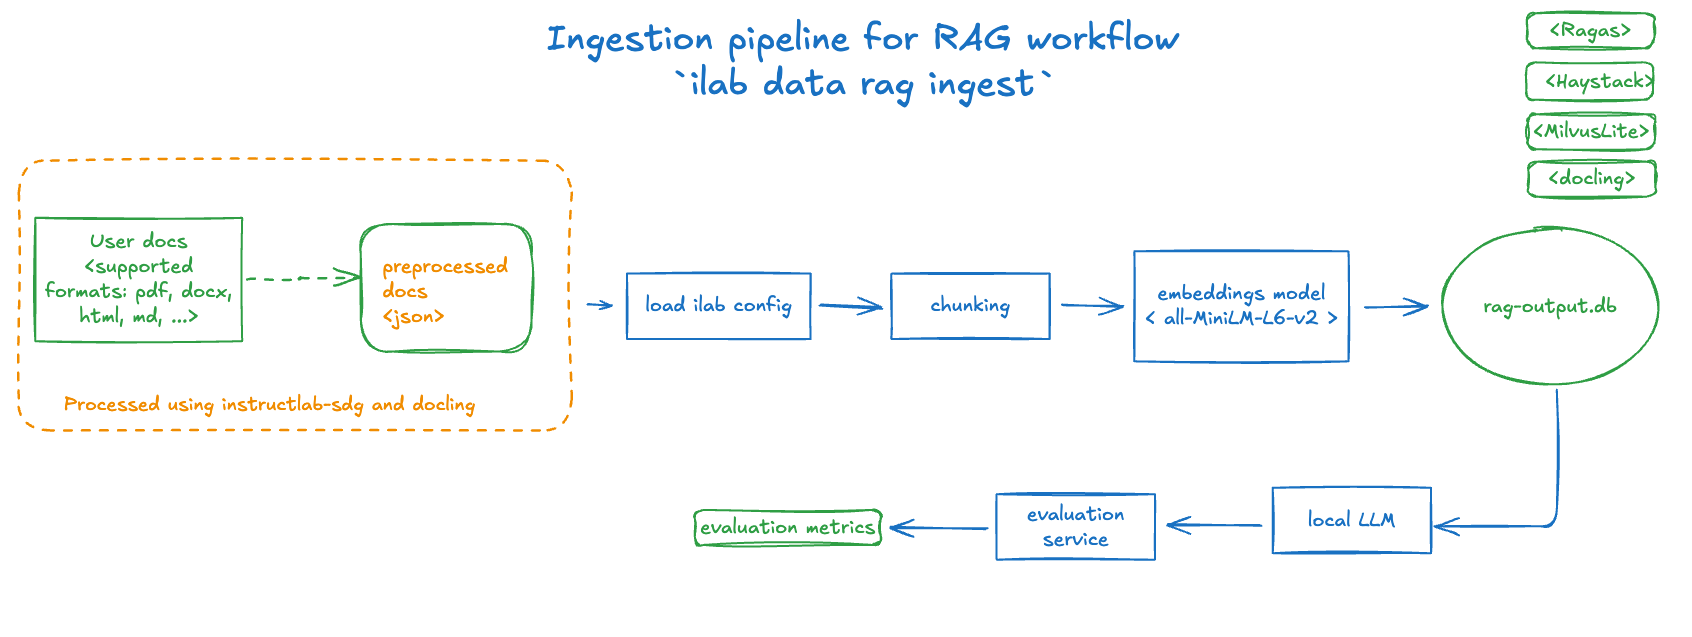
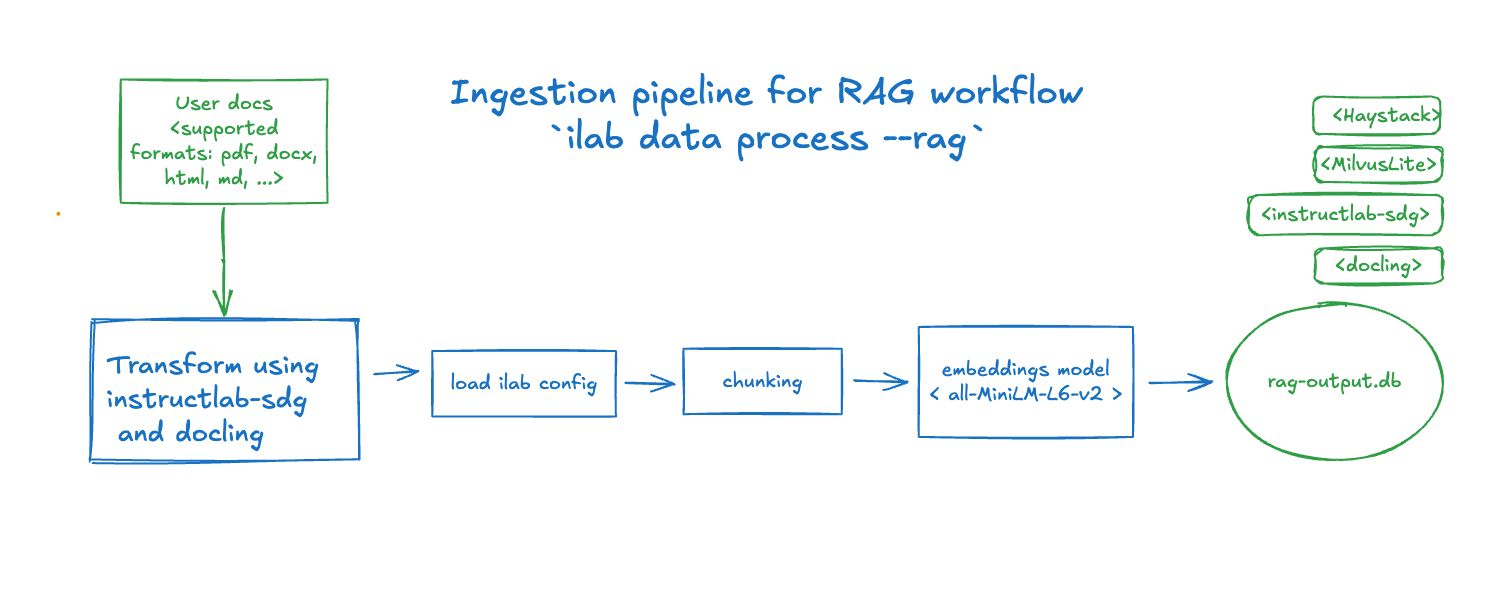
Reviewed proposal after meeting ilab-runtime team

diff --git a/docs/cli/ilab-rag-retrieval.md b/docs/cli/ilab-rag-retrieval.md
@@ -1,153 +1,123 @@
-# Ingesting and Utilizing RAG Artifacts Design Proposal
+# Design Proposal - Embedding Ingestion Pipeline And RAG-Based Chat
 
 **Author**: Daniele Martinoli
 
 **Version**: 0.1
 
 ## 1. Introduction
-Purpose of this document is to propose `ilab` CLI changes to extend the InstructLab flow to generate and utilize RAG artifacts
-in the customer workflows. The proposal includes new commands to ingest a local RAG from pre-processed customer documentation, that we assume to be generated from docling output, and updates to the existing commands to utilize these RAG artifacts.
+This document proposes enhancements to the `ilab` CLI to support workflows utilizing Retrieval-Augmented Generation
+(RAG) artifacts within `InstructLab`. The proposed changes introduce new commands and options for the embedding ingestion
+and RAG-based chat pipelines:
+* A new embedding ingestion command to process customer documentation, generate embeddings, and ingest them into a configured vector store.
+* An option to enhance the chat pipeline by using the stored embeddings to augment the context of conversations, improving relevance and accuracy.
 
-## 2. Use Case
-* Accelerate POCs of fine-tuning LLMs + RAG.
-* Generate artifacts that data scientists can use to build custom solutions in their development environment:
-  * Jupyter Notebooks & Python Scripts
-  * Podman Desktop
-  * Red Hat OpenShift AI
-  * Internal Red Hat CI systems for products or services (e.g., Lightspeed products)
+## 2. Proposed Commands
+### 2.1 Working Assumption
+This proposal aims to serve as a reference design to develop a Proof of Concept for RAG workflows, while
+also laying the foundation for future implementations of state-of-the-art RAG artifacts tailored to specific use
+cases.
 
-## 3. Proposed Commands
-**Note**: In the context of version 1.4, currently under development, no changes to the command-line interface should be
-allowed. Therefore, we also propose alternative approaches to run the same RAG pipelines using existing `ilab` commands or
-other provided tools.
+To minimize impact on current and future users, the following boundaries are defined:
+* Existing commands will only be updated to add flags or configurations that are maintainable in future versions.
+  * Configuration parameters will be marked as `Optional` to not affect existing runtimes.
+* New commands will be added using flags (e.g., `--abc`) or environment variables (e.g., `ILAB_ABC`) to avoid any configuration changes. 
+  This approach ensures configuration compatibility even if the commands are deprecated later.
 
-### 3.1 RAG Ingestion Pipeline Command
-The proposal is to add a `rag` subgroup under the `data` group, with an `ingest` command, like:
+### 2.2 Embedding Ingestion Pipeline Command
+The proposal is to add a `process`  command to the `data` command group, with an explicit `--rag` flag to trigger
+the executions:
 ```
-ilab data rag ingest /path/to/docs/folder
+ilab data process --rag /path/to/docs/folder
 ```
+
+The rationale behind this choice is that the `data process` command can support future workflows, making its
+introduction an investment to anticipate other needs.
+
+Since the RAG behavior is the only functionality of this new command, executions without the `--rag` option will result
+in no output for now.
 
 #### Command Purpose
-This command processes embeddings generated from documents located in the */path/to/docs/folder* folder and stores them in a vector database. These embeddings are intended to be used as augmented context in a Retrieval-Augmented Generation (RAG) chat pipeline.
+Generate the embeddings from the documents at */path/to/docs/folder* folder and store them in the
+configured vector database. These embeddings are intended to be used as augmented context in a RAG-based chat pipeline.
 
 #### Assumptions
-The documents must be in JSON format and pre-processed using the `docling` tool.
+The provided documents must be in JSON format according to the InstructLab schema: this is the schema generated
+when transforming knowledge documents with the `ilab data generate` command (see 
+[Getting Started with Knowledge Contributions][1]).
 
-**Note**: The expected JSON schema is the same that we have when we generate knowledge data with `ilab data generate` and we
-add a reference document to the `qna.yaml` document(s).
+To simplify the execution of the transformation step, we introduce a `--transform` option which also includes the documents
+transformation, leveraging on the `instructlab-sdg` modules. 
+
+### Why We Need It
+This command streamlines the `ilab data generate` pipeline and eliminates the requirement to define a `qna` document,
+which typically includes:
+* A minimum of 5×3 question-and-answer pairs.
+* Reference documents stored in Git.
+
+The goal is not to generate training data for InstructLab-trained models but to utilize the documents for RAG 
+workflows with pre-tuned models.
 
 #### Supported Databases
-The command supports multiple vector database types. By default, it uses a local `MilvusLite` instance stored at `./rag-output.db`.
+The command may support various vector database types. A default configuration will align with the selected 
+InstructLab technology stack.
 
 #### Usage
 The generated embeddings can later be retrieved to enrich the context for RAG-based chat pipelines.
 
-#### Running the pipeline with v1.4
-Currently, there is no `ilab data rag` command available to execute the RAG ingestion pipeline. As a result, it is not possible
-to address the limitations of version 1.4 using the configuration options detailed below. 
-Alternatively, we propose providing a Jupyter notebook or a standalone script to run the pipeline with default settings.
+#### Defining Command Options
+To maintain compatibility and simplicity, no new configurations will be introduced for this command. Instead,
+the settings will be defined using the following hierarchy (options higher in the list overriding those below):
+* CLI flags (e.g., `--rag`).
+* Environment variables following a consistent naming convention, such as `ILAB_<UPPERCASE_ARGUMENT_NAME>`.
+* Default values, for all the applicable use cases.
 
-The script should guide users in overriding default options and generating the RAG artifacts in the configured vector database instance. By default, support for MilvusLite will be included.
-
-> **ℹ CLI-based alternative:** This is an alternative to run both the document transformation and the document ingestion in 
-> could be to run the document ingestion pipeline as part of the existing
-> `ilab data generate` command, with additional options to:
-> * overcome the limitation of starting from `qna.yaml` documents
-> * define an input and output locations
-> Example:
-> ```yaml
-> generate:
->   rag: 
->     enabled: true
->     input: /path/to/source-docs/folder
->     output: /path/to/processed-docs/folder
-> rag:
->   ...
-> ```
-> When `generate.rag.enabled` is set to `true`, the `ilab data generate command` executes the document ingestion pipeline, transforming 
-> the source documents in the `generate.rag.input` folder into the configured vector database:
-> * Step 1: Transform the documents using the existing `SDG` modules (powered by `docling`).
-> * Step 2: Ingest the pre-processed artifacts from `generate.rag.output` into the configured database.
-
-**TODO** Introduce the evaluation framework
-
-### 3.2 RAG Ingestion Pipeline Options
-**Planned for post v1.4 (apart changes required for the `chat` command)**
-
-| Option full name | Description | Default | CLI option |
-|------------------|-------------|---------|------------|
-| rag.splitter.split_by | One of `page`, `passage`, `sentence`, `word`, `line` | `word` | `--split-by` |
-| rag.splitter.split_length | The maximum number of units in each split | `200` | `--split-length` |
-| rag.splitter.split_overlap | The number of overlapping units for each split | `0` | `--split-overlap` |
-| rag.splitter.split_threshold | The minimum number of units per split | `0` | `--split-threshold` |
-| The vector DB implementation, one of: milvuslite, milvus, ... | `milvuslite` | `--vectordb-type` |
-| rag.vectordb.type | The vector DB implementation, one of: milvuslite, milvus, ... | `milvuslite` | `--vectordb-type` |
-| rag.vectordb.uri | The vector DB service URI | `./rag-output.db` | `--vectordb-uri` |
-| rag.vectordb.token | The vector DB connection token | | `--vectordb-token` |
-| rag.vectordb.username | The vector DB connection username | | `--vectordb-username` |
-| rag.vectordb.password | The vector DB connection password | | `--vectordb-password` |
-| rag.embedding_model.name | The embedding model name | `sentence-transformers/all-minilm-l6-v2` | `--model` |
-| rag.embedding_model.token | The token to download private models | | `--model-token` |
-| **TODO** evaluation framework options | | | |
-
-Equivalent YAML document for the newly proposed options:
-```yaml
-rag:
-  splitter:
-    split_by: word
-    split_length: 200
-    split_overlap: 0
-    split_threshold: 0
-  vectordb:
-    type: milvuslite
-    uri: ./rag-output.db
-    token: _DB_TOKEN_
-    username: _DB_USERNAME_
-    password: _DB_PASSWORD_
-  embedding_model:
-    name: sentence-transformers/all-MiniLM-L6-v2
-    token: _MODEL_TOKEN_
+For example, the `splitter_split_by` argument can be implemented using the `click` module like this:
+```py
+@click.option(
+    "--splitter-split-by",
+    default='word',
+    envvar="ILAB_SPLITTER_SPLIT_BY",
+)
 ```
 
-### 3.3 RAG Chat Pipeline Command
-The proposal is to add a `rag` option under the `model chat` command, like:
+### 2.3 Embedding Ingestion Pipeline Options
+
+| Option Description | Default Value | CLI Flag | Environment Variable |
+|--------------------|---------------|----------|----------------------|
+| Whether to include a transformation step. | `False` | `--transform` (boolean) | `ILAB_TRANSFORM` |
+| The output path of transformed documents (serve as input for the embedding ingestion pipeline). Mandatory when `--transform` is used. |  | `--transform-output` | `ILAB_TRANSFORM_OUTPUT` |
+| How to split the documents. One of `page`, `passage`, `sentence`, `word`, `line` | `word` | `--splitter-split-by` | `ILAB_SPLITTER_SPLIT_BY` |
+| Maximum number of units in each split. | `200` | `--splitter-split-length` | `ILAB_SPLITTER_SPLIT_LENGTH` |
+| Number of overlapping units for each split. | `0` | `--splitter-split-overlap` | `ILAB_SPLITTER_SPLIT_OVERLAP` |
+| Minimum number of units per split. | `0` | `--splitter-split-threshold` | `ILAB_SPLITTER_SPLIT_THRESHOLD` |
+| Vector DB implementation, one of: `milvuslite`, **TBD** | `milvuslite` | `--vectordb-type` | `ILAB_VECTORDB_TYPE` |
+| Vector DB service URI. | `./rag-output.db` | `--vectordb-uri` | `ILAB_VECTORDB_URI` |
+| Vector DB connection token. | | `--vectordb-token` | `ILAB_VECTORDB_TOKEN` |
+| Vector DB connection username. | | `--vectordb-username` | `ILAB_VECTORDB_USERNAME` |
+| Vector DB connection password. | | `--vectordb-password` | `ILAB_VECTORDB_PASSWORD` |
+| Name of the embedding model. | `sentence-transformers/all-minilm-l6-v2` | `--model` | `ILAB_EMBEDDING_MODEL_NAME` |
+| Token to download private models. |  | `--model-token` | `ILAB_EMBEDDING_MODEL_TOKEN` |
+
+### 2.4 RAG Chat Pipeline Command
+The proposal is to add a `--rag` flag to the `model chat` command, like:
 ```
 ilab model chat --rag
 ```
+
 #### Command Purpose
-This command enhances the existing `ilab model chat` functionality by integrating contextual information retrieved from user-provided documents, enriching the conversational experience with relevant insights.
+This command enhances the existing `ilab model chat` functionality by integrating contextual information retrieved from user-provided documents, 
+enriching the conversational experience with relevant insights.
 
 #### Revised chat pipeline
 * Start with the user's input, `user_query`.
-* (optional) Refine the `user_query` using the configured LLM to generate a semantically enriched `context_query`.
-* Use the `context_query` (or the `user_query`, if the previous step was disabled) to retrieve relevant contextual information from the 
-  embedding database.
+* Use the given `user_query` to retrieve relevant contextual information from the embedding database (semantic search).
 * Append the retrieved context to the original LLM request.
-* Send the augmented request to the LLM and return the response to the user.
+* Send the context augmented request to the LLM and return the response to the user.
 
-#### Refining the user query for semantic search purposes
-To improve semantic search on the embeddings database, the user query can be refined using the same or a different LLM. 
-This step reduces ambiguity, filters irrelevant details, and aligns the query more closely with the database’s semantic structure, 
-increasing retrieval accuracy.
-
-To minimize LLM query costs, this refinement can be configured as an optional step in the chat pipeline.
-
-Another strategy to reduce costs could be to perform the refinement query only when the embedding retrieval step fails to return 
-sufficient contextual information to meet a configured score threshold.
-
-#### Running the pipeline with v1.4
-To address the limitations of version 1.4, we propose introducing a configuration option to enable the RAG pipeline without any changes to the CLI:
-```
-chat.rag.enabled=true
-```
-This approach allows the chat pipeline to utilize the desired RAG artifacts by relying on configuration options and maintaining
-compatibility with the existing CLI. Consequently, corresponding CLI options (e.g.,` --retriever-top-k` and similar) will not be
-introduced in this version.
-
-### 3.4 RAG Chat Commands
+### 2.5 RAG Chat Commands
 The `/r` command may be added to the `ilab model chat` command to dynamically toggle the execution of the RAG pipeline.
 
-The current status could be displayed with an additional marker on the chat status bar, as in:
+The current status could be displayed with an additional marker on the chat status bar, as in (top right corner):
 ```console
 >>> /h                                                                                                              [RAG][S][default]
 ╭───────────────────────────────────────────────────────────── system ──────────────────────────────────────────────────────────────╮
@@ -174,43 +144,28 @@ The current status could be displayed with an additional marker on the chat stat
 ╰───────────────────────────────────────────────────────────────────────────────────────────────────────────────────────────────────╯
 ```
 
-### 3.5 RAG Chat Options
-**Also required in v1.4**
-Notes:
-* All the `rag.vectordb.*` options previously defined are also used to locate the vector DB.
+### 2.6 RAG Chat Options
+As we stated in [3.1 Working Assumptions](#31-working-assumption), we will introduce new configuration options for the spceific `chat` command,
+but we'll use flags and environment variables for the options that come from the embedding ingestion pipeline command.
 
-
-| Option full name | Description | Default | CLI option |
-|------------------|-------------|---------|------------|
-| chat.rag.enabled | Boolean flag to enable or disable the RAG pipeline | `false` | `--rag` (boolean)|
-| chat.rag.context_refinement.enabled | Whether to enable the query refinement request to the LLM | `false` | `--rag-context-refinement` (boolean) |
-| chat.rag.context_refinement.prompt | Prompt template for query refinement | See examples below | `--rag-context-prompt` |
-| chat.rag.retriever.top_k | The maximum number of documents to retrieve | `10` | `--retriever-top-k` |
-| chat.rag.retriever.min_score_threshold | The minimum score threshold for chunks to be considered | `0.5` | `--retriever-min-score-threshold` |
-| chat.rag.retriever.filters | Comma separated key-value pairs filters to restrict the search space | See **Notes** | `--retriever-filters` |
-| chat.rag.prompt | Prompt template for RAG-based queries | See examples below | `--rag-prompt` |
+| Configuration FQN | Description | Default Value | CLI Flag | Environment Variable |
+|-------------------|-------------|---------------|----------|----------------------|
+| chat.rag.enabled | Enable or disable the RAG pipeline. | `false` | `--rag` (boolean)| `ILAB_CHAT_RAG_ENABLED` |
+| chat.rag.retriever.top_k | The maximum number of documents to retrieve. | `10` | `--retriever-top-k` | `ILAB_CHAT_RAG_RETRIEVER_TOP_K` |
+| chat.rag.prompt | Prompt template for RAG-based queries. | Examples below | `--rag-prompt` | `ILAB_CHAT_RAG_PROMPT` |
+| | Vector DB implementation, one of: `milvuslite`, **TBD** | `milvuslite` | `--vectordb-type` | `ILAB_VECTORDB_TYPE` |
+| | Vector DB service URI. | `./rag-output.db` | `--vectordb-uri` | `ILAB_VECTORDB_URI` |
+| | Vector DB connection token. | | `--vectordb-token` | `ILAB_VECTORDB_TOKEN` |
+| | Vector DB connection username. | | `--vectordb-username` | `ILAB_VECTORDB_USERNAME` |
+| | Vector DB connection password. | | `--vectordb-password` | `ILAB_VECTORDB_PASSWORD` |
 
 Equivalent YAML document for the newly proposed options:
 ```yaml
 chat:
   rag:
     enabled: false
-    context_refinement:
-      enabled: true
-      prompt: |
-        You are an assistant helping refine user queries for retrieval from a vector database. 
-        The goal is to extract the most relevant information for answering the user's request. 
-        Rewrite this query to focus on the key concepts and details that will retrieve the most contextually 
-        relevant results from the database. 
-        Make it concise and specific, avoiding conversational context or ambiguity.
-        Return the refined query in a single sentence. Avoid any undesired comment or consideration.
-        User query:
-        {{user_query}}
-        Refined query:
     retriever:
       top_k: 10
-      min_score_threshold: 0.5
-      filters: 'url=doc.pdf'
     prompt: |
       Given the following information, answer the question.
       Context:
@@ -219,46 +174,48 @@ chat:
       Answer:
 ```
 
-**Notes**:
-* Example of `filters` for a `milvuslite` DB:
-```
---retriever-filters "url=https://en.wikipedia.org/wiki/Mausoleum_at_Halicarnassus"
-```
-which translates to the following dictionary in the retrieval request (*):
-```json
-{
-   "operator":"==",
-   "field":"url",
-   "value":"https://en.wikipedia.org/wiki/Mausoleum_at_Halicarnassus"
-}
-```
-(*) This is for `milvuslite`, other DB can have a different implementation
-
-### 3.6 References
+### 2.7 References
 * [Haystack-DocumentSplitter](https://github.com/deepset-ai/haystack/blob/f0c3692cf2a86c69de8738d53af925500e8a5126/haystack/components/preprocessors/document_splitter.py#L55)
 * [MilvusEmbeddingRetriever](https://github.com/milvus-io/milvus-haystack/blob/77b27de00c2f0278e28b434f4883853a959f5466/src/milvus_haystack/milvus_embedding_retriever.py#L18)
 
 
-### 3.7 Workflow Visualization
-<!-- https://excalidraw.com/#json=hyDopdXaChbf6TNuLGYE0,WkLQBF84vypx0JwAL5iwzA -->
-Ingestion pipeline:
+### 2.8 Workflow Visualization
+<!-- https://excalidraw.com/#json=PN2h_LM-Wd2WZYBJfZMDs,WQCq5NDbRXUH2qr8maFFNg -->
+Embedding ingestion pipeline:
 ![ingestion-mvp](../images/ingestion-mvp.png)
-Chat pipeline enriched by RAG context:
+RAG-based Chat pipeline:
 ![rag-chat](../images/rag-chat.png)
 
-### 3.8 Proposed Implementation Stack
+### 2.9 Proposed Implementation Stack
+> **ℹ Note:** This stack is still under review. The proposed list represents potential candidates based on the current state of discussions.
+
 The following technologies form the foundation of the proposed solution:
 
 * [Haystack](https://haystack.deepset.ai/): Framework for implementing RAG pipelines and applications.
 * [MilvusLite](https://milvus.io/docs/milvus_lite.md): The default vector database for efficient storage and retrieval of embeddings.
 * [Docling](https://github.com/DS4SD/docling): Document processing tool. For more details, refer to William’s blog, [Docling: The missing document processing companion for generative AI](https://www.redhat.com/en/blog/docling-missing-document-processing-companion-generative-ai).
-[Ragas](https://docs.ragas.io/en/latest/concepts): Framework for evaluating and optimizing retrieval-augmented generation pipelines.
 
-## 4. Future Enhancements
-### 4.1 Integrate the Knowledge Document Ingestion Pipeline
-Integrate the RAG ingestion pipeline with the [Knowledge Document Ingestion Pipeline](https://github.com/instructlab/dev-docs/pull/148):
-![ingestion-future](../images/ingestion-future.png)
-
-### 4.2 Agentic RAG and Advanced Retrieval artifacts
+## 3. Future Enhancements
+### 3.1 Model Evaluation 
 **TODO**
-...
+
+### 3.2 Additional RAG chat steps
+- [Ranking retriever's result][ranking]: 
+```bash
+ilab model chat --rag --ranking --ranking-top-k=5 --ranking-model=cross-encoder/ms-marco-MiniLM-L-12-v2
+```
+- [Query expansion][expansion]:
+```bash
+ilab model chat --rag --query-expansion --query-expansion-prompt="$QUERY_EXPANSION_PROMPT" --query-expansion-num-of-queries=5
+```
+- ...
+
+### 3.3 Containerized Index
+Generate a containerized RAG artifact to expose a `/query` endpoint:
+```bash
+ilab data process --rag --build-image --image-name=docker.io/user/my_rag_artifacts:1.0
+```
+
+[1]: https://github.com/instructlab/taxonomy?tab=readme-ov-file#getting-started-with-knowledge-contributions
+[ranking]: https://docs.haystack.deepset.ai/v1.21/reference/ranker-api
+[expansion]: https://haystack.deepset.ai/blog/query-expansion
